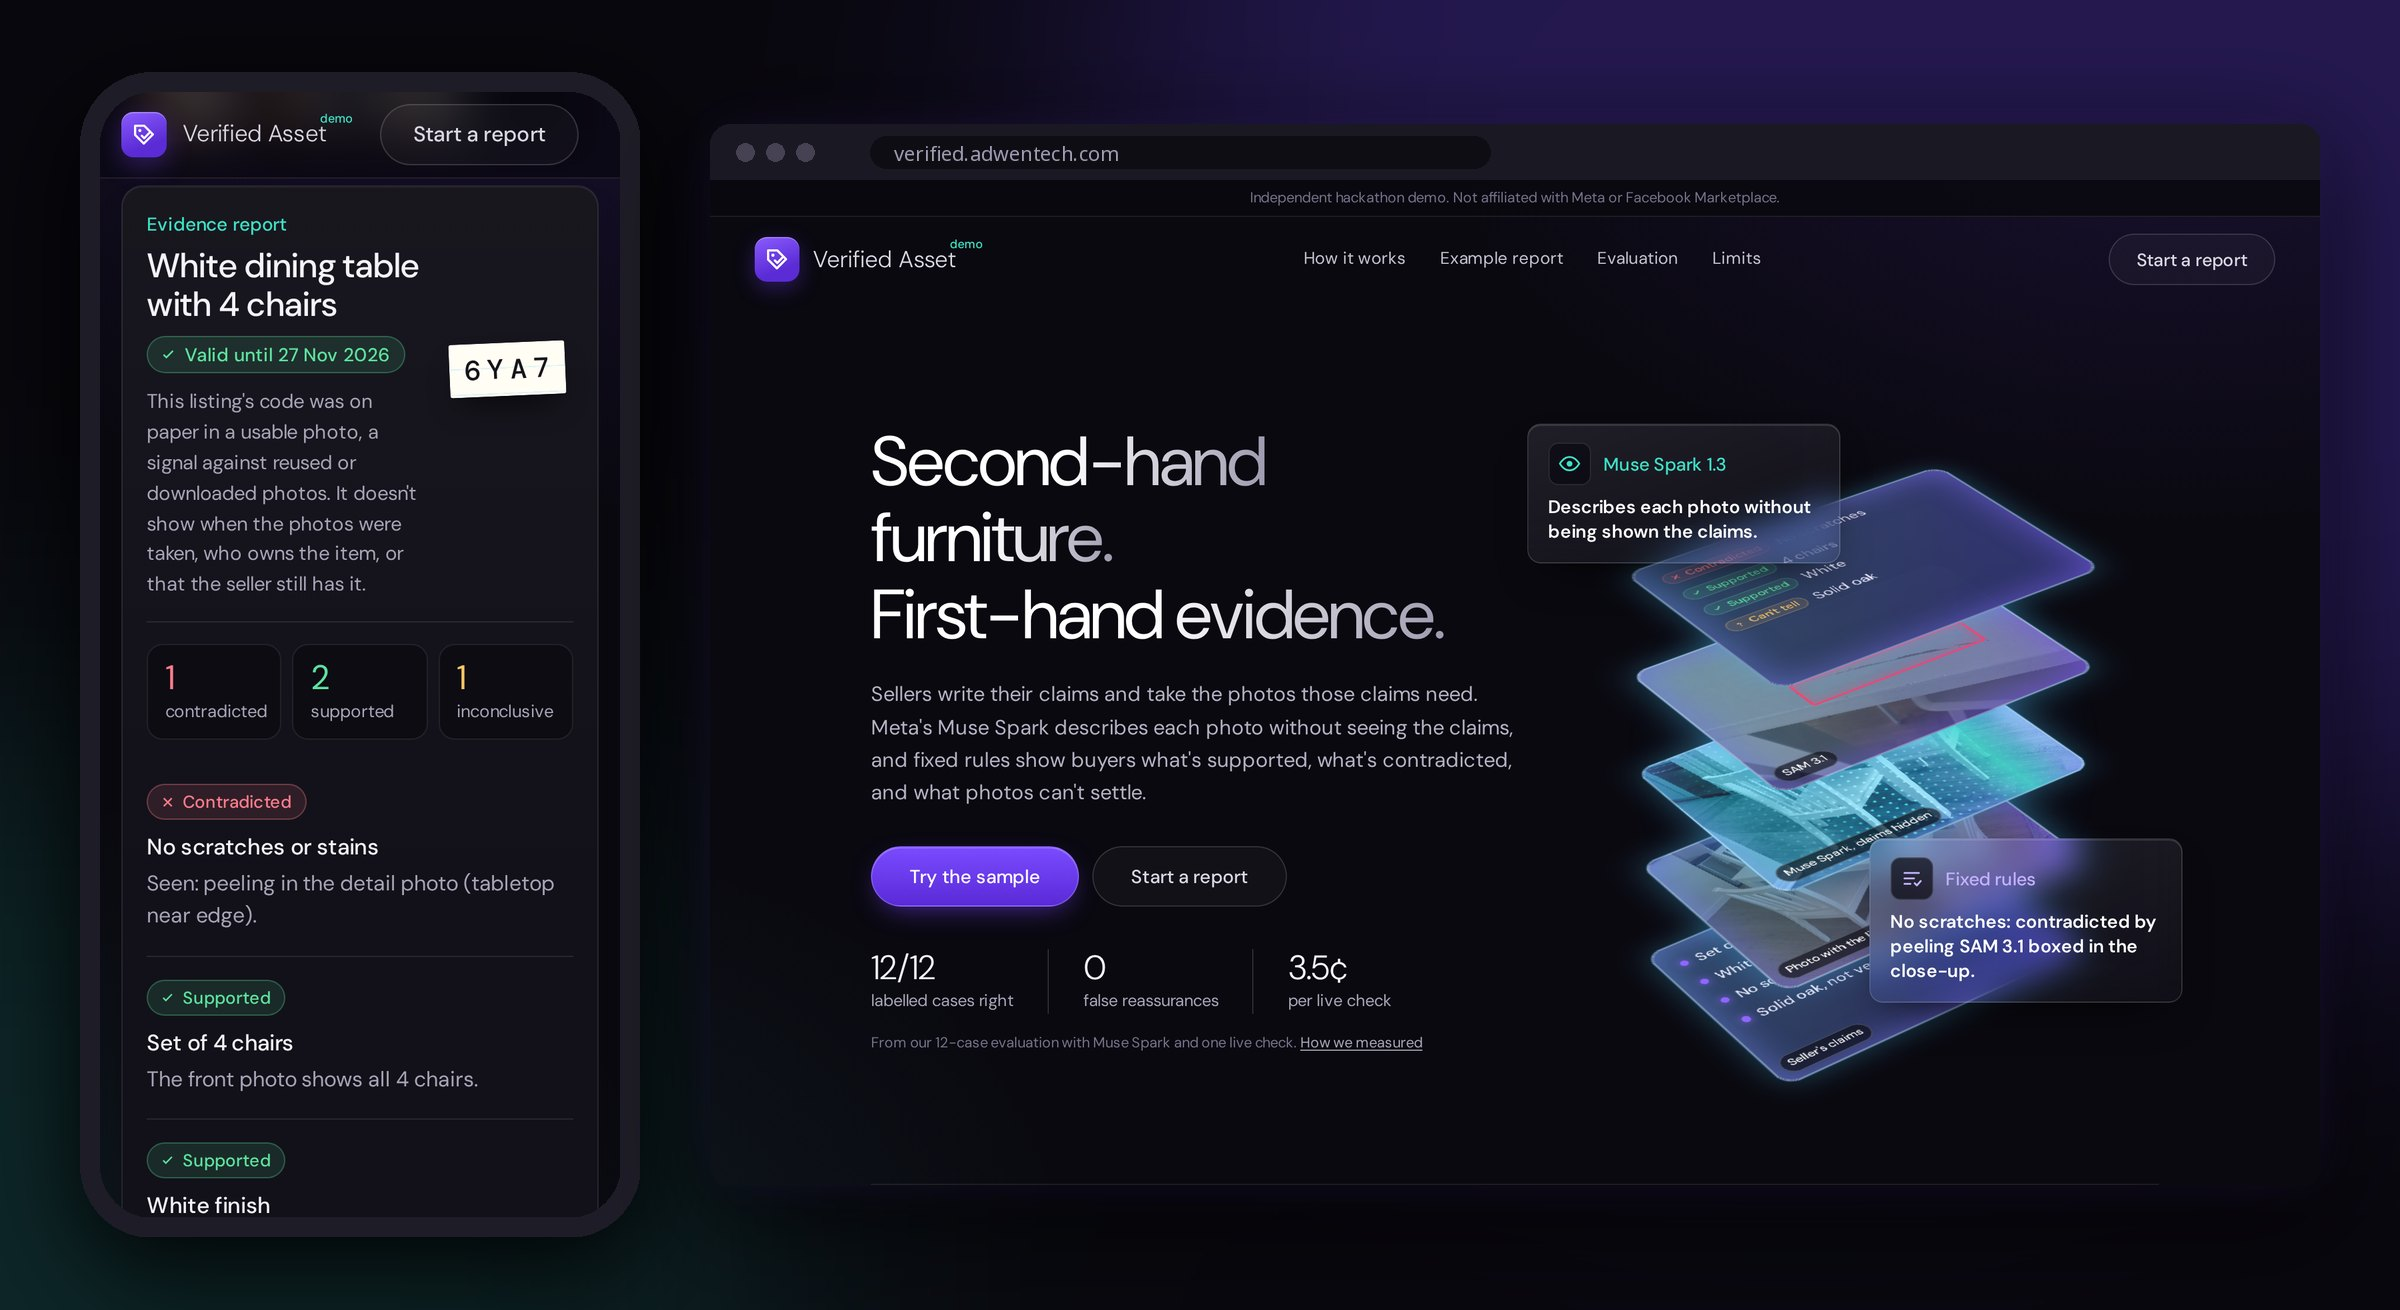
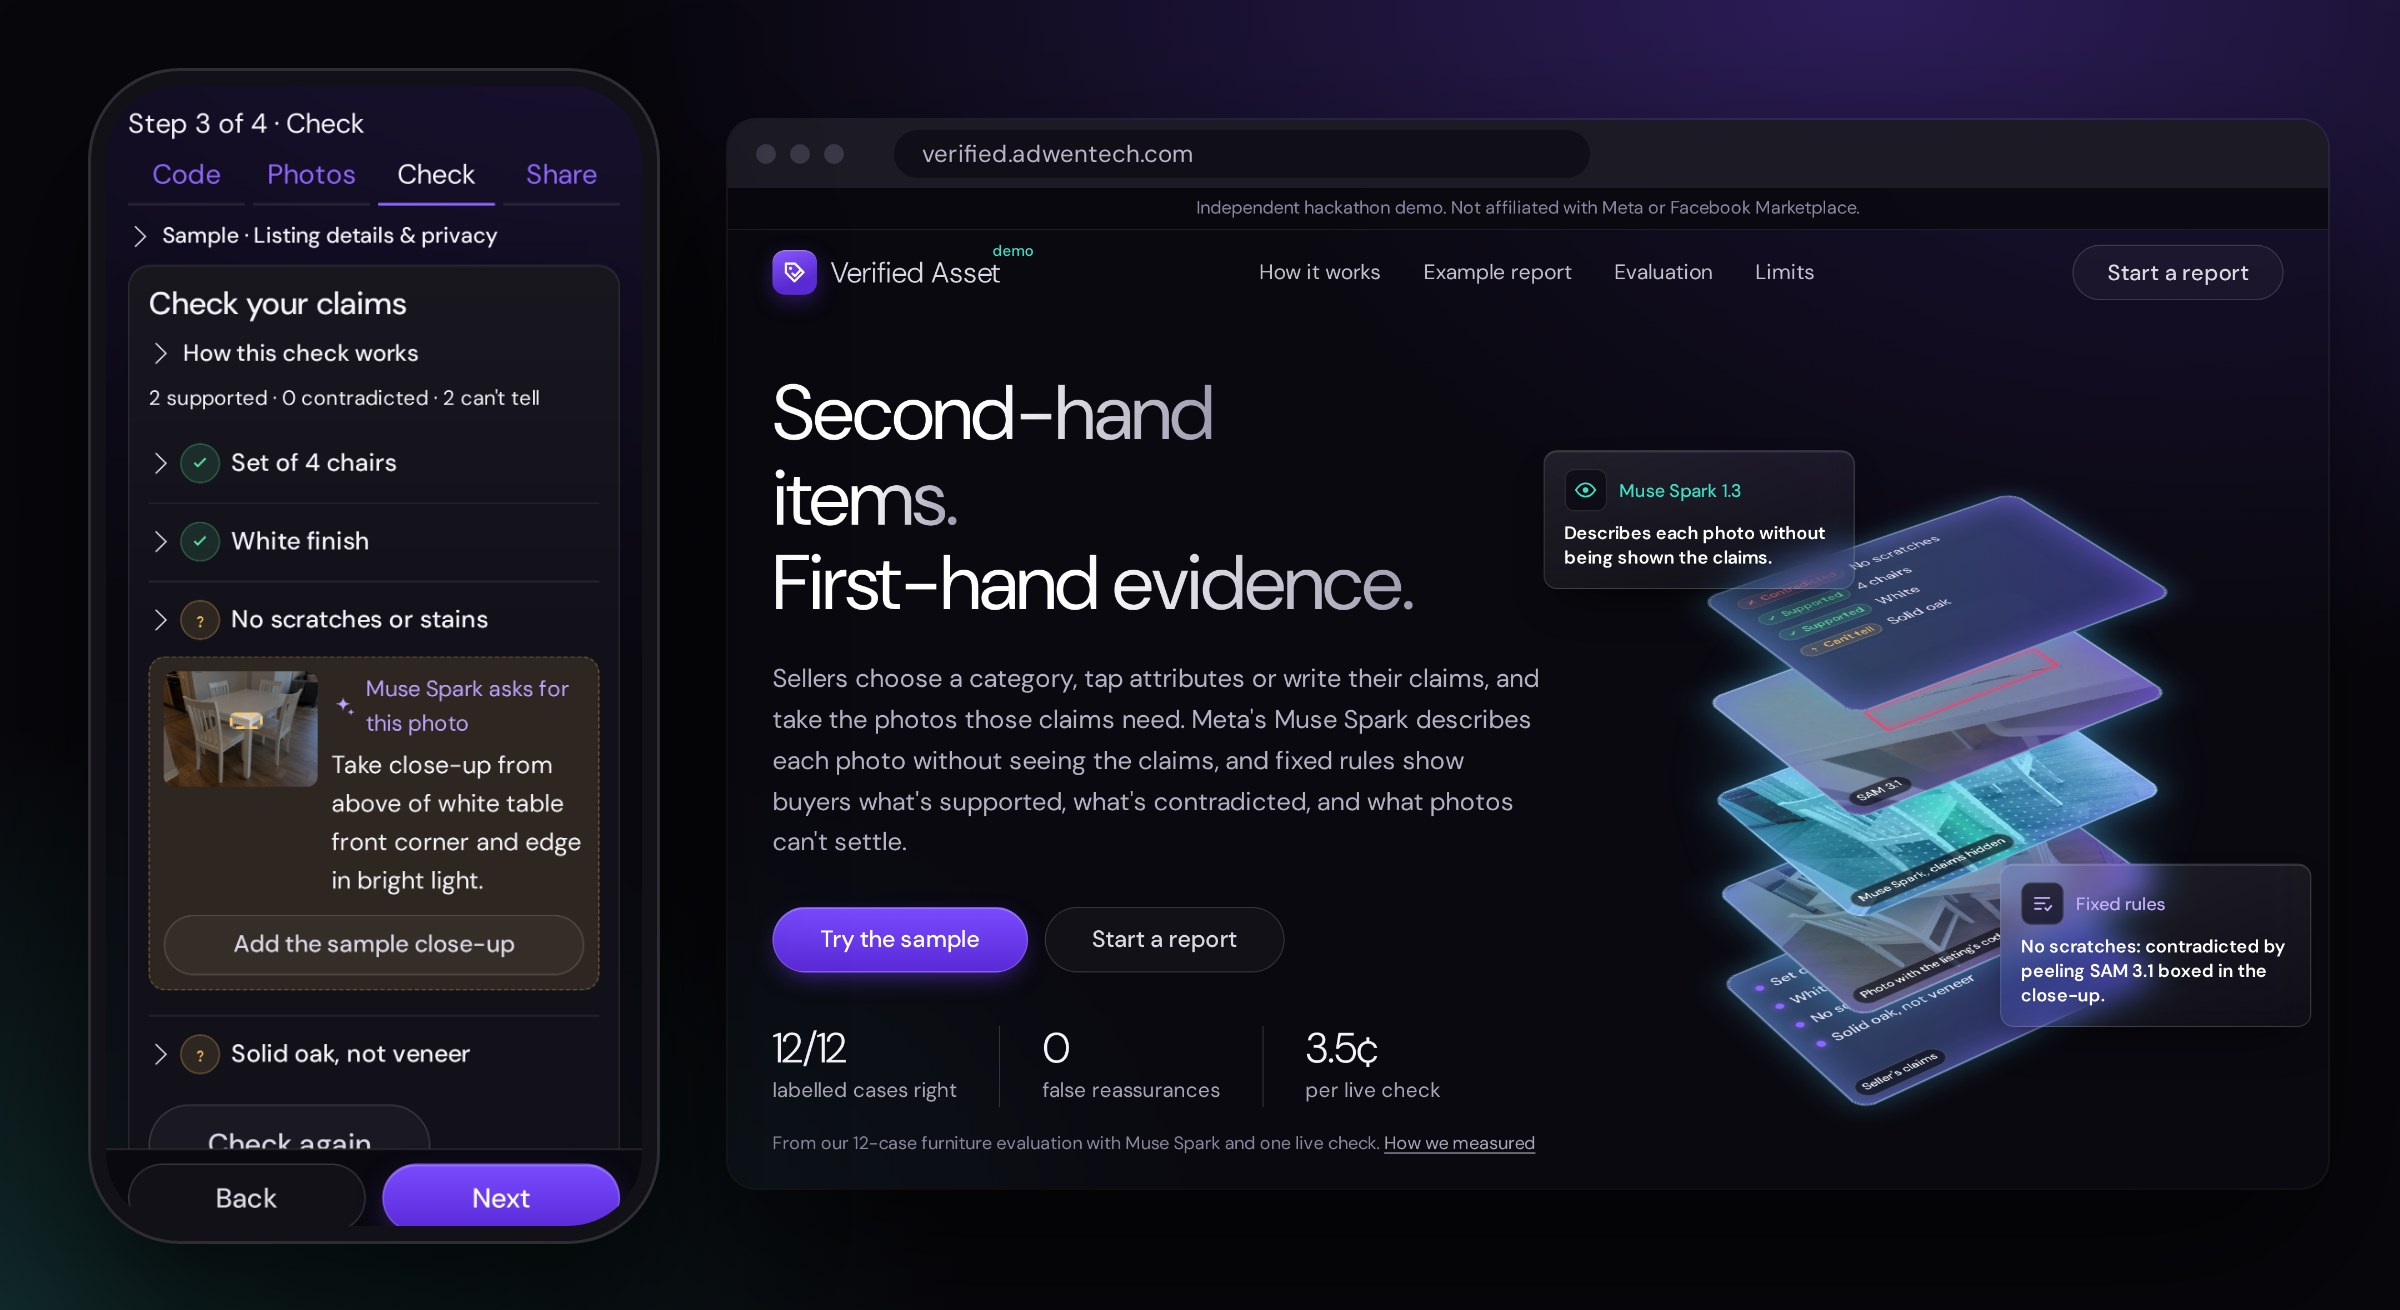
README media: retake the hero and walkthrough on the current site
The phone in the hero now shows the photo Muse Spark asks the seller for,
the laptop the current home page; the walkthrough follows the four-step
sample from the missing close-up to the voided report. Both come from
docs/media/make.py, which uses only the sample.

diff --git a/docs/media/make.py b/docs/media/make.py
@@ -1,0 +1,151 @@
+"""Make the README's hero.jpg and walkthrough.gif from a running site.
+
+    python3 docs/media/make.py [base url]    (needs playwright with its browser, pillow and ffmpeg)
+
+Uses only the sample listing, so it never calls a model and never spends.
+"""
+import asyncio
+import subprocess
+import sys
+import tempfile
+from pathlib import Path
+
+from playwright.async_api import async_playwright
+
+BASE = (sys.argv[1] if len(sys.argv) > 1 else "https://verified.adwentech.com").rstrip("/")
+OUT = Path(__file__).parent
+HIDE_BAR = "<style>.wizard-actions{visibility:hidden!important}</style>"
+CAPTION = """(([n, text]) => {
+  document.querySelector('.wizard-actions')?.style.setProperty('visibility', 'hidden');
+  const c = document.createElement('div');
+  c.style.cssText = 'position:fixed;left:24px;bottom:22px;z-index:99;display:flex;align-items:center;gap:12px;'
+    + 'padding:10px 20px 10px 10px;border-radius:999px;background:#6d3df5;color:#fff;font:600 19px/1.2 var(--sans, sans-serif);'
+    + 'box-shadow:0 10px 30px rgba(0,0,0,.45)';
+  c.innerHTML = '<b style="display:grid;place-items:center;width:30px;height:30px;border-radius:50%;background:#fff;color:#6d3df5">'
+    + n + '</b>' + text;
+  document.body.appendChild(c);
+})"""
+
+HERO = """<!doctype html><html><head><meta charset="utf-8">
+<link href="https://fonts.googleapis.com/css2?family=DM+Sans:opsz,wght@9..40,400;9..40,500&display=swap" rel="stylesheet">
+<style>
+  body { margin: 0; width: 1200px; height: 655px; overflow: hidden; font-family: 'DM Sans', sans-serif;
+         background: radial-gradient(900px 520px at 78% 0%, rgba(124,77,255,.32), transparent 70%),
+                     radial-gradient(700px 420px at 0% 100%, rgba(63,224,198,.16), transparent 70%), #08070c; }
+  .browser { position: absolute; left: 364px; top: 60px; width: 800px; border-radius: 14px; overflow: hidden;
+             background: #15131c; box-shadow: 0 40px 90px rgba(0,0,0,.6), 0 0 0 1px rgba(255,255,255,.08); }
+  .bar { height: 34px; display: flex; align-items: center; gap: 7px; padding: 0 14px; background: #1c1a24; }
+  .bar i { width: 10px; height: 10px; border-radius: 50%; background: #3a3746; }
+  .bar span { margin-left: 18px; flex: 0 0 320px; padding: 4px 14px; border-radius: 99px; background: #100e16;
+              color: #b9b4c8; font-size: 12px; }
+  .browser img { display: block; width: 100%; }
+  .phone { position: absolute; left: 44px; top: 34px; width: 286px; height: 588px; padding: 9px; box-sizing: border-box;
+           border-radius: 46px; background: #121117; box-shadow: 0 40px 80px rgba(0,0,0,.7), 0 0 0 1.5px rgba(255,255,255,.12) inset; }
+  .phone img { display: block; width: 100%; height: 100%; object-fit: cover; object-position: top; border-radius: 37px; }
+</style></head><body>
+<div class="browser"><div class="bar"><i></i><i></i><i></i><span>verified.adwentech.com</span></div><img src="desk.png"></div>
+<div class="phone"><img src="phone.png"></div>
+</body></html>"""
+
+
+async def main():
+    with tempfile.TemporaryDirectory() as tmp:
+        tmp = Path(tmp)
+        async with async_playwright() as p:
+            b = await p.chromium.launch()
+
+            # Hero: the home page on a laptop, and on a phone the photo Muse Spark asks the seller for
+            desk = await (await b.new_context(viewport={"width": 1440, "height": 900}, device_scale_factor=2)).new_page()
+            await desk.goto(BASE + "/", wait_until="networkidle")
+            await desk.wait_for_timeout(2500)
+            await desk.screenshot(path=str(tmp / "desk.png"))
+            phone_ctx = await b.new_context(viewport={"width": 390, "height": 844}, device_scale_factor=3, is_mobile=True, has_touch=True)
+            phone = await phone_ctx.new_page()
+            await phone.goto(BASE + "/", wait_until="networkidle")
+            async with phone.expect_navigation():
+                await phone.locator(".hero-copy .ctas button").click()
+            async with phone.expect_navigation():
+                await phone.locator("#check-form button[type=submit]").click()
+            await phone.wait_for_load_state("networkidle")
+            await phone.evaluate("scrollTo(0, 0)")
+            await phone.wait_for_timeout(600)
+            await phone.screenshot(path=str(tmp / "phone.png"))
+            (tmp / "hero.html").write_text(HERO)
+            comp = await (await b.new_context(viewport={"width": 1200, "height": 655}, device_scale_factor=2)).new_page()
+            await comp.goto((tmp / "hero.html").as_uri(), wait_until="networkidle")
+            await comp.screenshot(path=str(OUT / "hero.jpg"), type="jpeg", quality=88)
+
+            # Walkthrough: one captioned frame per step of the sample
+            ctx = await b.new_context(viewport={"width": 1280, "height": 800}, reduced_motion="reduce")
+            await ctx.add_init_script(f"addEventListener('DOMContentLoaded', () => document.head.insertAdjacentHTML('beforeend', '{HIDE_BAR}'))")
+            pg = await ctx.new_page()
+            frames = []
+
+            async def frame(text):
+                await pg.wait_for_timeout(400)
+                await pg.evaluate(CAPTION, [len(frames) + 1, text])
+                path = tmp / f"f{len(frames)}.png"
+                await pg.screenshot(path=str(path))
+                frames.append(path)
+
+            async def go(url):
+                await pg.goto(url, wait_until="networkidle")
+
+            await go(BASE + "/")
+            await frame("Sellers back up what their listing claims")
+            async with pg.expect_navigation():
+                await pg.locator(".hero-copy .ctas button").click()
+            listing = pg.url.split("#")[0]
+            await go(listing + "#photos")
+            await frame("Guided photos with the listing's code. The close-up is missing")
+            await go(listing + "#check")
+            await pg.evaluate("document.getElementById('check-form').addEventListener('submit', e => e.preventDefault())")
+            await pg.locator("#check-form button[type=submit]").click()
+            await pg.wait_for_timeout(2400)
+            await frame("Muse Spark describes the photos without seeing the claims")
+            await pg.reload(wait_until="networkidle")
+            async with pg.expect_navigation():
+                await pg.locator("#check-form button[type=submit]").click()
+            await pg.wait_for_load_state("networkidle")
+            await pg.evaluate("scrollTo(0, document.querySelector('.verdict-summary').getBoundingClientRect().top + scrollY - 140)")
+            await frame("Fixed rules decide. Muse Spark asks for the exact photo missing")
+            async with pg.expect_navigation():
+                await pg.locator(".shot-ask .reshoot button").click()
+            async with pg.expect_navigation():
+                await pg.locator("#check-form button[type=submit]").click()
+            await pg.wait_for_load_state("networkidle")
+            await pg.locator("#check .verdict.contradicted summary").click()
+            await frame("With the close-up, “No scratches or stains” is contradicted")
+            await go(listing + "#share")
+            async with pg.expect_navigation():
+                await pg.locator("#share button[type=submit]").first.click()
+            report = pg.url.split("#")[0]
+            await go(report)
+            await frame("Buyers open the report: a verdict per claim, with the photos")
+            await go(listing + "#check")
+            await pg.locator("details.edit summary").click()
+            await pg.locator("details.edit .claim-phrase").first.click()
+            await pg.fill("details.edit input[name=text0]", "Set of 6 chairs")
+            await pg.fill("details.edit input[name=value0]", "6")
+            async with pg.expect_navigation():
+                await pg.locator("details.edit .form-actions button").click()
+            await go(report)
+            await frame("Edit the listing and the old report stops vouching for it")
+            await b.close()
+
+        # 2.4 s per frame with a 0.35 s crossfade, 12 fps, one palette for the whole loop
+        hold, fade, fps = 2.4, 0.35, 12
+        args, chain, last = [], [], "0:v"
+        for f in frames:
+            args += ["-loop", "1", "-t", str(hold + fade), "-i", str(f)]
+        for i in range(1, len(frames)):
+            out = f"x{i}"
+            chain.append(f"[{last}][{i}:v]xfade=transition=fade:duration={fade}:offset={i * hold:.2f}[{out}]")
+            last = out
+        graph = ";".join(chain) + f";[{last}]fps={fps},scale=1000:-1:flags=lanczos,split[a][b];[a]palettegen=stats_mode=full[p];[b][p]paletteuse=dither=sierra2_4a"
+        subprocess.run(["ffmpeg", "-v", "error", "-y", *args, "-filter_complex", graph, "-loop", "0", str(OUT / "walkthrough.gif")], check=True)
+    for name in ("hero.jpg", "walkthrough.gif"):
+        print(name, (OUT / name).stat().st_size // 1024, "KB")
+
+
+asyncio.run(main())

diff --git a/README.md b/README.md
@@ -1,5 +1,5 @@
 <p align="center">
-  <img src="docs/media/hero.jpg" alt="Verified Asset on a phone and a laptop. The phone shows the evidence report for a white dining table with four chairs: 1 contradicted, 2 supported, 1 inconclusive. The laptop shows the home page, with the pipeline drawn as a stack of glass plates: the seller's claims, the photo with the code on paper, Muse Spark's blind pass, SAM 3.1's box and the verdicts." width="100%">
+  <img src="docs/media/hero.jpg" alt="Verified Asset on a phone and a laptop. The phone shows the seller's Check step for a white dining table with four chairs: 2 supported, 0 contradicted, 2 can't tell, and Muse Spark asking for a close-up of the table's front corner and edge, with that area marked on the seller's own photo. The laptop shows the home page, with the pipeline drawn as a stack of glass plates: the seller's claims, the photo with the code on paper, Muse Spark's blind pass, SAM 3.1's box and the verdicts." width="100%">
 </p>
 
 <h1 align="center">Verified Asset</h1>
@@ -34,7 +34,7 @@ The seller chooses Furniture, Phones & tablets, Electronics & gaming, Clothing &
 On the [live site](https://verified.adwentech.com), **Try the sample** runs the whole seller flow on the dining set below. It replays recorded Muse Spark observations of those photos, so it needs no photos of your own and makes no API call. It starts without the close-up: the first check can't tell whether there are scratches, Spark's recorded plan asks for the close-up and marks where, and adding it turns the claim into a contradiction. Change "Set of 4 chairs" to 6 and check again to see another. The [demo guide](docs/demo-guide.md) walks through every screen with numbered screenshots.
 
 <p align="center">
-  <img src="docs/media/walkthrough.gif" alt="Walkthrough: the seller writes claims, takes guided photos with a code on paper, Muse Spark describes the photos without seeing the claims, fixed rules decide each claim, the buyer opens the report, and editing the listing voids it." width="88%">
+  <img src="docs/media/walkthrough.gif" alt="Walkthrough of the sample: the home page; guided photos with the code on paper and the close-up missing; Muse Spark describing the photos without seeing the claims; fixed rules deciding while Muse Spark asks for the exact photo missing; the close-up turning No scratches or stains into contradicted; the buyer's report; and an edit to the listing voiding the old report." width="88%">
 </p>
 
 ## How it works
